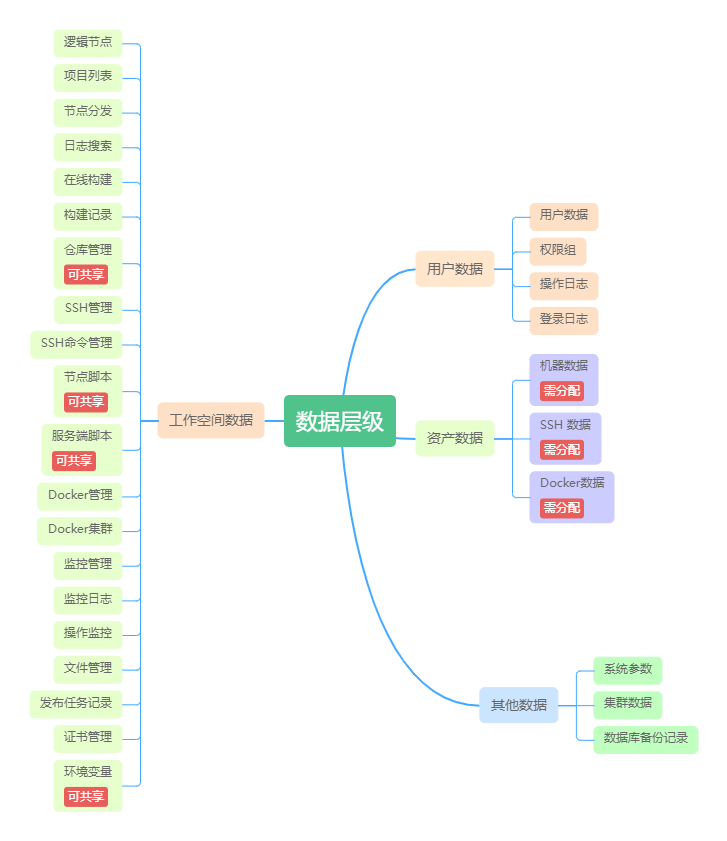
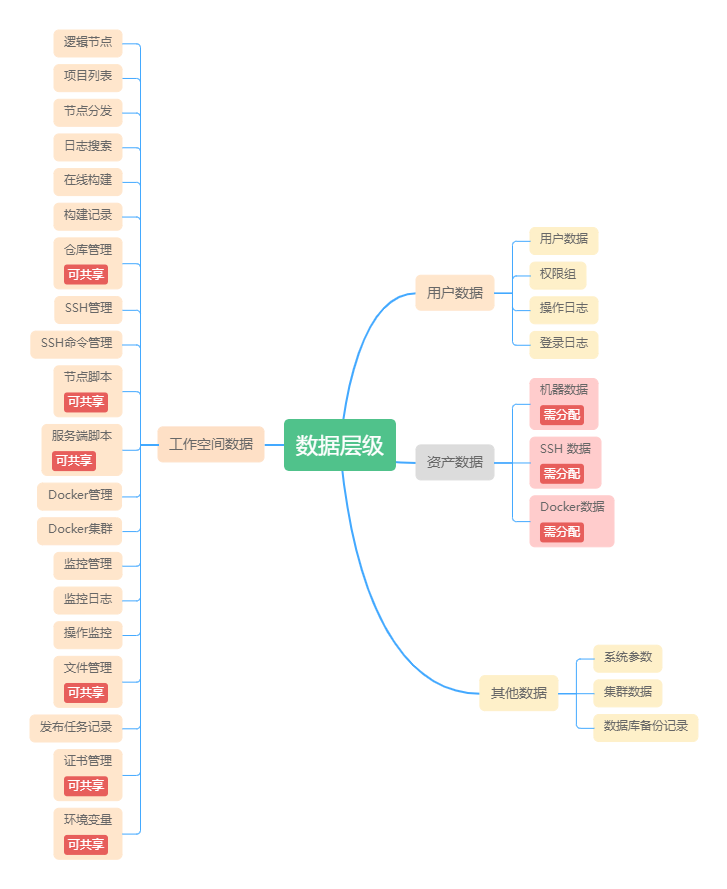
更新文档

diff --git a/docs/index.md b/docs/index.md
@@ -236,6 +236,16 @@ notices-2: # 可选的
 
 <br/>
 
+## Jpom 发现史
+
+Jpom 从 2017 年诞生、2019 年发布第一个版本。
+
+从最开始仅支持`单机管理`以及数据采用 `JSON 文件存储`到多`节点管理`、`支持 H2/Mysql 数据库`、`容器构建`等。
+
+至今已经经历 `150+` 版本迭代欢迎您使用，为 Jpom 发展提出宝贵意见，我们也更欢迎您参与进来共同为开源做出一份贡献。
+
+<img :src="$withBase('/images/time-line.png')" alt="jpom-func-arch">
+
 ## 快速体验
 
 ### 一键安装插件端 [详细的安装说明文档](/pages/install/)
@@ -271,6 +281,10 @@ bash install.sh Agent jdk
 ```
   </code-block>
 </code-group>
+
+::: tip 说明
+插件端是可选项，实际根据您使用情况来决定是否需要安装。详细说明请看[详细的安装说明文档](/pages/install/)
+:::
 
 
 ### 一键安装服务端 [详细的安装说明文档](/pages/install/)
@@ -330,7 +344,7 @@ docker run -p 2122:2122 --name jpom-server jpomdocker/jpom
 ## 🏡代码托管
 
 - [Gitee ![star](https://gitee.com/dromara/Jpom/badge/star.svg?theme=gvp)](https://gitee.com/dromara/Jpom/)
-- [Github](https://github.com/dromara/Jpom)
+- [Github![star](https://img.shields.io/github/stars/dromara/Jpom.svg?style=social)](https://github.com/dromara/Jpom)
 
 <br/>
 

diff --git a/docs/文档/00.序言/02.了解Jpom.md b/docs/文档/00.序言/02.了解Jpom.md
@@ -68,13 +68,15 @@ Q: 当时为啥不取了解其他解决方案呢？
   - 支持多节点管理
 - 2021 年 03 月 发布 v2.5.0 [更新日志](https://gitee.com/dromara/Jpom/releases/tag/v2.5.0)
   - 使用 Vue2 开发 UI（感谢@Hotstrip）
+  - 加入 Dromara 社区
 - 2021 年 07 月 发布 v2.6.0 [更新日志](https://gitee.com/dromara/Jpom/releases/tag/v2.6.0)
   - 支持 H2 数据库
 - 2021 年 11 月 发布 v2.7.0 [更新日志](https://gitee.com/dromara/Jpom/releases/tag/v2.7.0)
+  - 逐步替代 JSON 文件存储
 - 2021 年 12 月 发布 v2.8.0 [更新日志](https://gitee.com/dromara/Jpom/releases/tag/v2.8.0)
   - 引入工作空间概念
   - 支持容器安装（感谢@[email redacted]）
-- 2022 年 02 月 发布 V2.8.8 [更新日志](https://gitee.com/dromara/Jpom/releases/tag/v2.8.8)
+- 2022 年 02 月 发布 v2.8.8 [更新日志](https://gitee.com/dromara/Jpom/releases/tag/v2.8.8)
   - 新增容器管理（感谢@💎ℳ๓₯㎕斌💎💘）
   - 支持容器构建
 - 2022 年 06 月 发布 v2.9.0 [更新日志](https://gitee.com/dromara/Jpom/releases/tag/v2.9.0)
@@ -84,7 +86,8 @@ Q: 当时为啥不取了解其他解决方案呢？
 - 2022 年 12 月 发布 v2.10.0 [更新日志](https://gitee.com/dromara/Jpom/releases/tag/v2.10.0)
   - 全面下线服务端 JSON 文件存储
   - Jpom 安装包目录结构优化
-  - 配置属性名规划化
+  - 配置属性名规范化
+  - 支持 mysql 数据库（v2.10.9）
 - 2023 年 03 月 发布 v2.10.37 [更新日志](https://gitee.com/dromara/Jpom/releases/tag/v2.10.37)
   - 开启 beta 计划
 